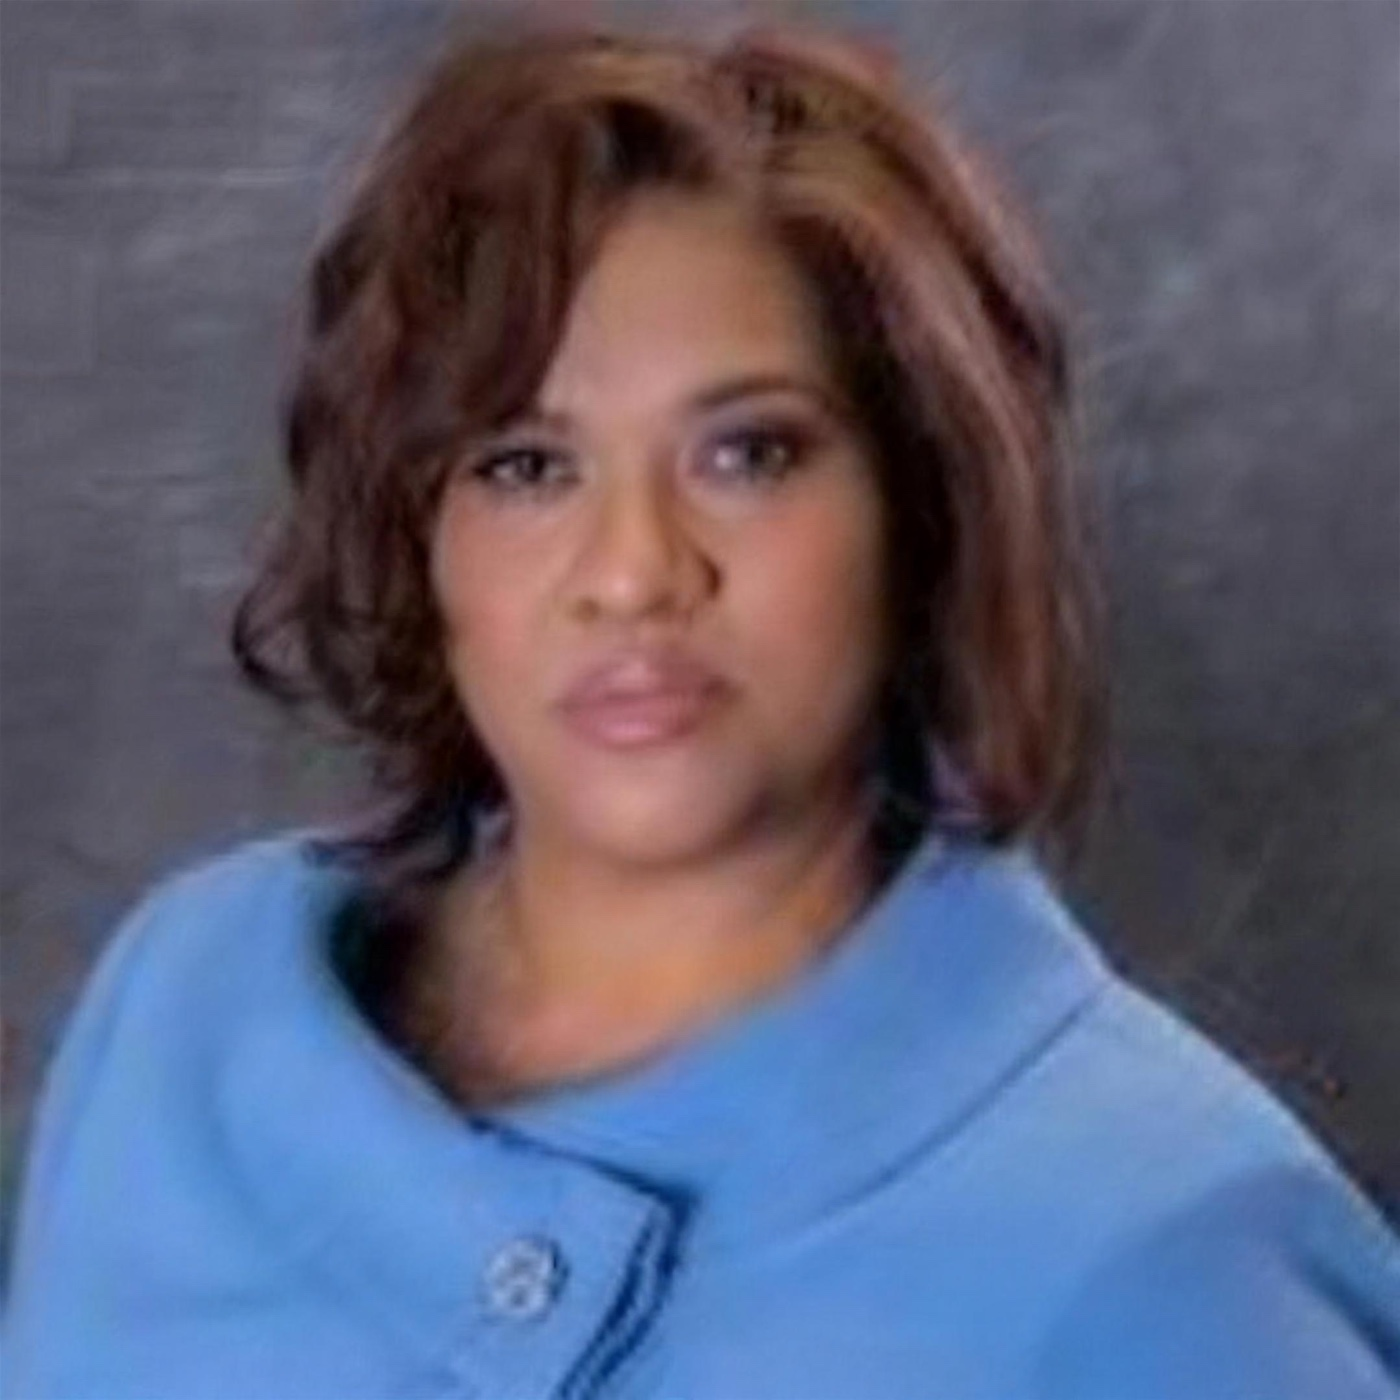
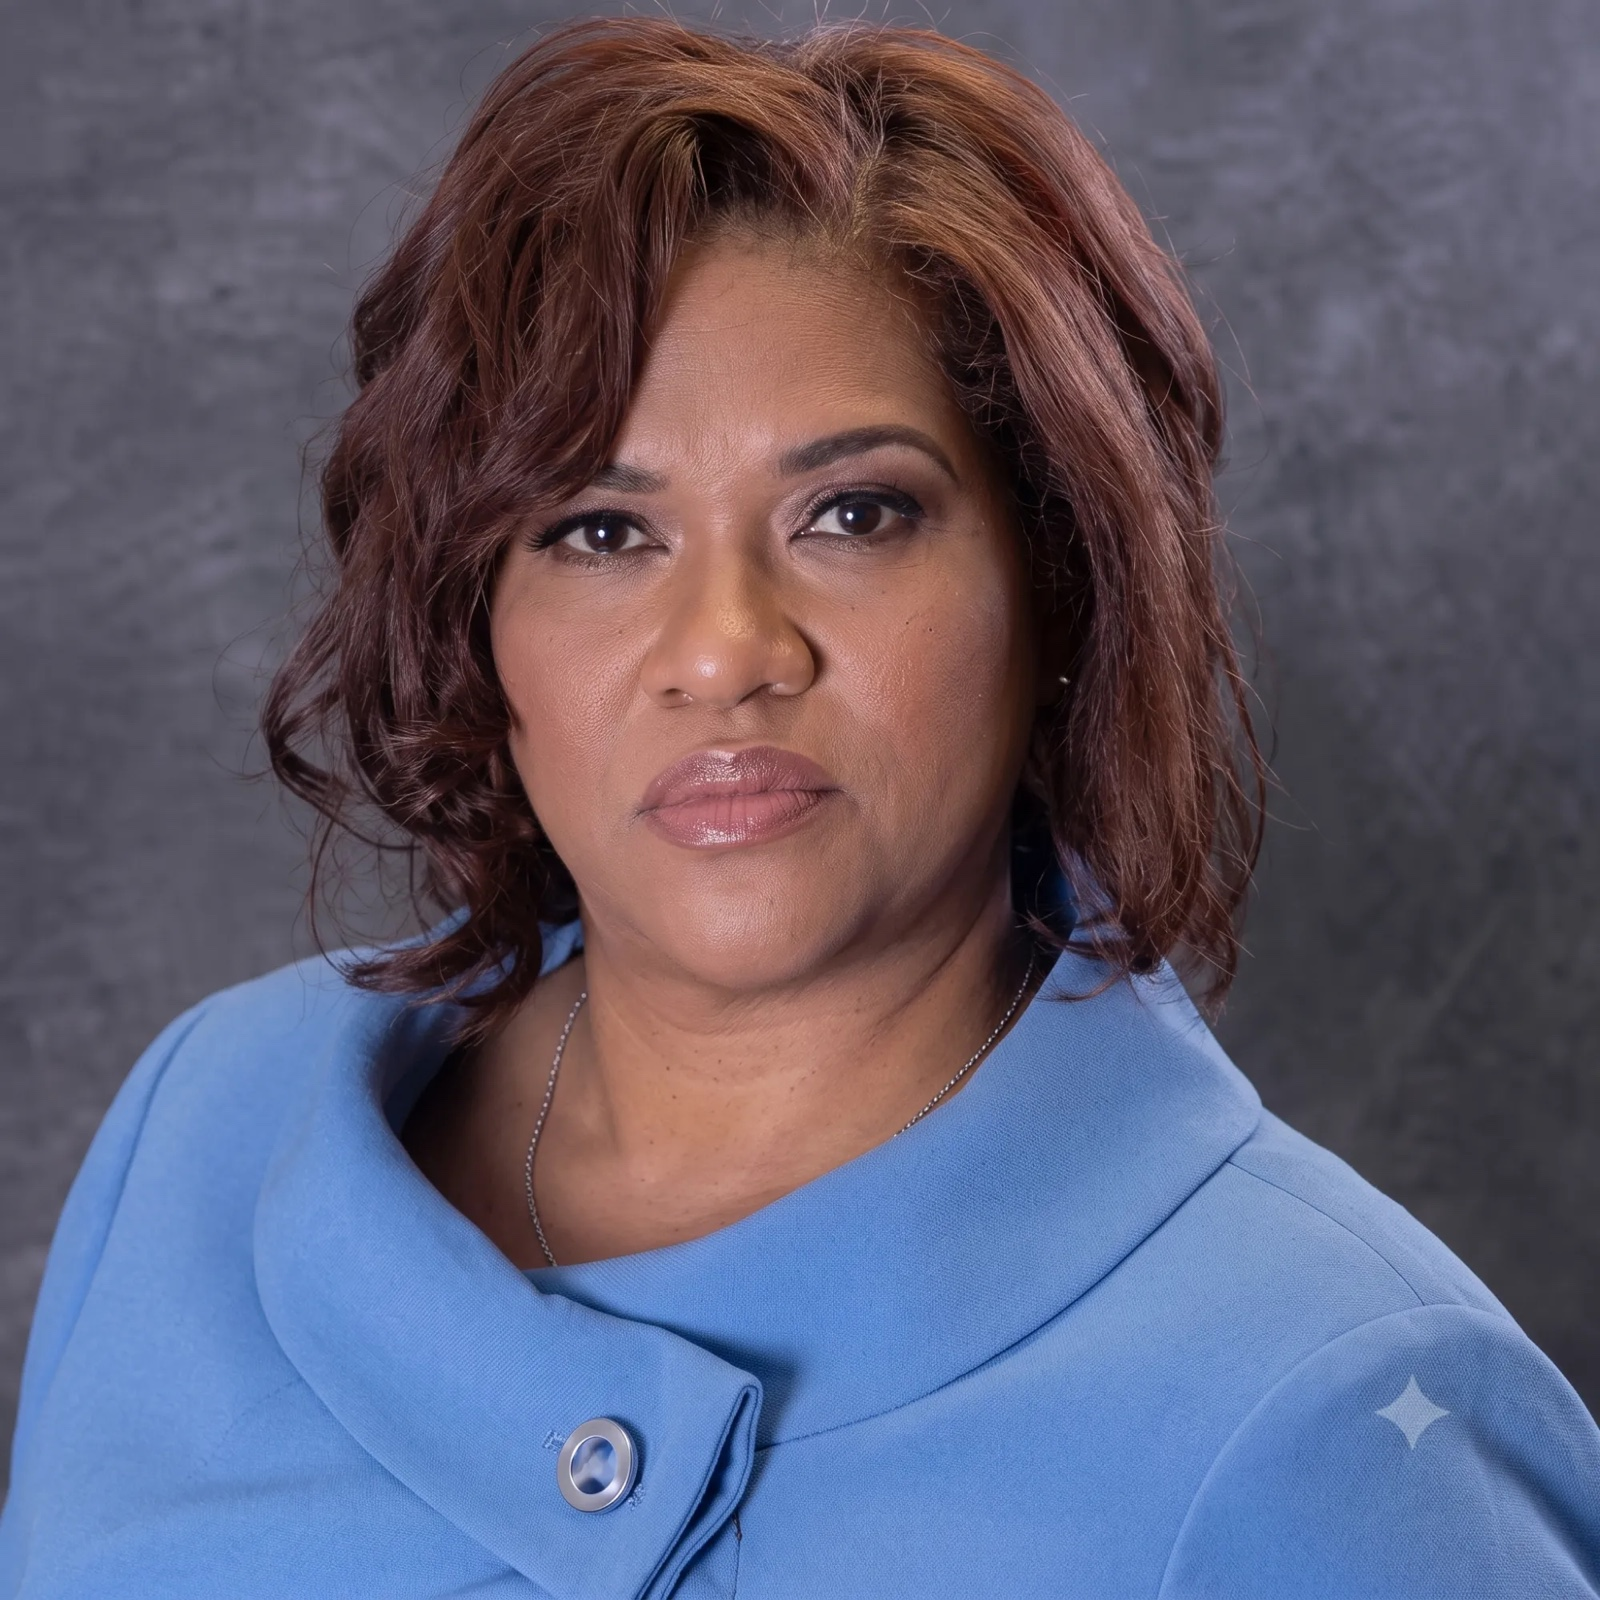
Use the full-resolution headshot for Avia Gauthier's portrait
Replaces the thumbnail upscale with the client's 2000px headshot, served at
1600px. The master file is kept in brand-assets/.

diff --git a/src/app/attorney-avia-gauthier/page.tsx b/src/app/attorney-avia-gauthier/page.tsx
@@ -16,8 +16,6 @@ import { CtaBand } from "@/components/ui/CtaBand";
 // No credentials, education, bar admissions, awards, or years in practice were
 // supplied. Every such fact stays a bracketed placeholder until the client verifies
 // it — and verified facts should then also be passed to attorneySchema().
-// The portrait is the client's headshot, upscaled from a 150px thumbnail; swap in
-// the full-resolution original when it is available.
 
 export const metadata = pageMetadata({
   title: "Avia Gauthier, Dallas Criminal Defense Attorney",

diff --git a/src/content/images.ts b/src/content/images.ts
@@ -6,8 +6,7 @@ export type SiteImage = { src: string; alt: string };
 // generated office photography with real photos once the client supplies them.
 export const IMAGES = {
   aviaPortrait: {
-    // Client-supplied headshot, upscaled with Higgsfield from a 150px thumbnail.
-    // TODO(client): replace with the full-resolution original headshot file.
+    // Client-supplied headshot (2000px master in brand-assets/).
     src: "/images/avia-gauthier.jpg",
     alt: "Avia Gauthier, criminal defense attorney at Gauthier Law Firm",
   },
